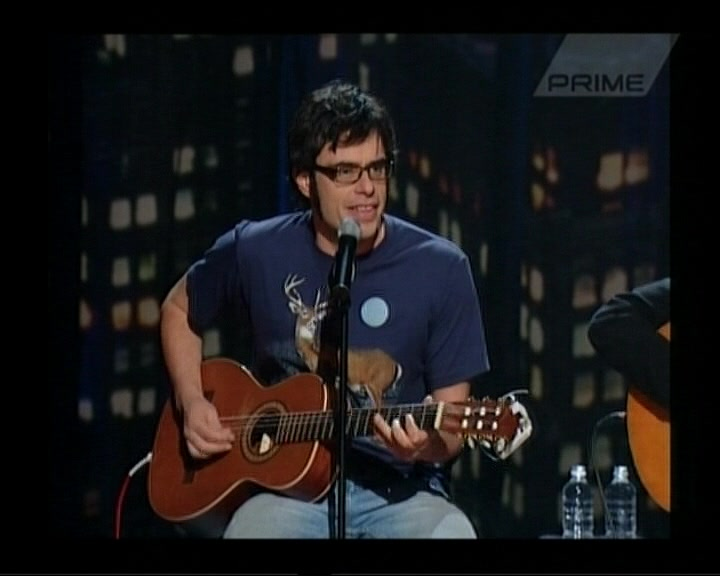
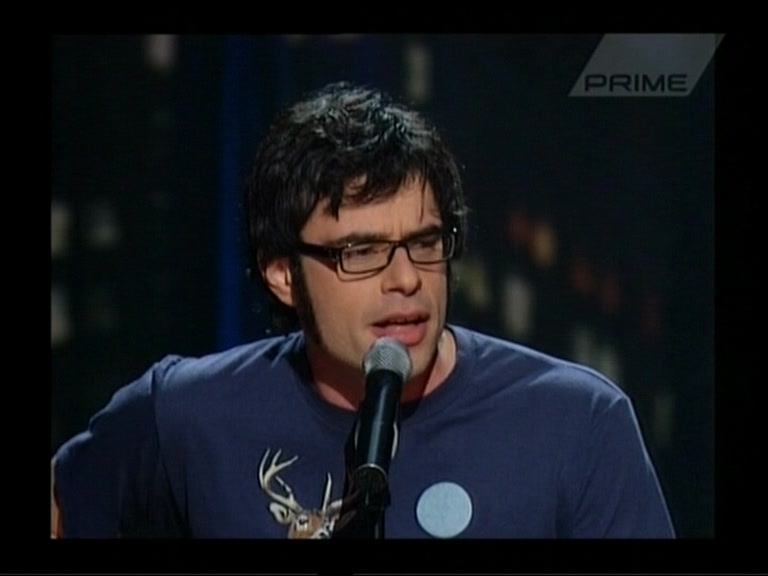
fix(shows): Flight of the Conchords — HBO One Night Stand re-filed from Various Artists
- d4fcfb3bbaec ('Flight of the Concordes HBO Master + KOL EMA') was filed
  as Various Artists with no metadata. It is the Conchords' HBO One Night
  Stand special (2005): VTS_01, 29:25, a PAL Comedy Central rebroadcast
  despite the folder name. Now Flight of the Conchords, Proshot, United
  States; setlist shared with its duplicate. VTS_02 (Kings of Leon, MTV
  EMA 2010) noted but not recorded, per Karl.
- ee0b16c989b2 ('One Night Stand') is the same special from NZ's Prime TV.
  City held 'One Night Stand' (the programme name) - cleared; DurationSec
  1321 -> 1788 (demuxed); metadata aligned with its duplicate.
- ShowDate 2005-01-01 on both: published air dates conflict (19 Aug vs
  6 Sep 2005), both noted.

feat(images): both sources captured at 768x576 (4:3, confirmed by Karl),
different moments on each; heroes verified at 340px.

diff --git a/CLAUDE.md b/CLAUDE.md
@@ -1093,6 +1093,6 @@ print(len(d), 'shows /', len(a), 'artists'); print(a.most_common(9)); print(f.mo
 - **945 shows** across **170 artists**
 - Top artists by volume: Stone Temple Pilots (99), Smashing Pumpkins (63),
   Kings Of Leon (53), Soundgarden (36), Red Hot Chili Peppers (32), Foo Fighters (31),
-  Stereophonics (29), Various Artists (27), Incubus (24)
+  Stereophonics (29), Various Artists (26), Incubus (24)
 - Top festivals: Rock am Ring (49), Glastonbury Festival (29), Reading Festival (28),
   MTV Unplugged (24), Pinkpop (23), Bizarre Festival (21), Big Day Out (19)
